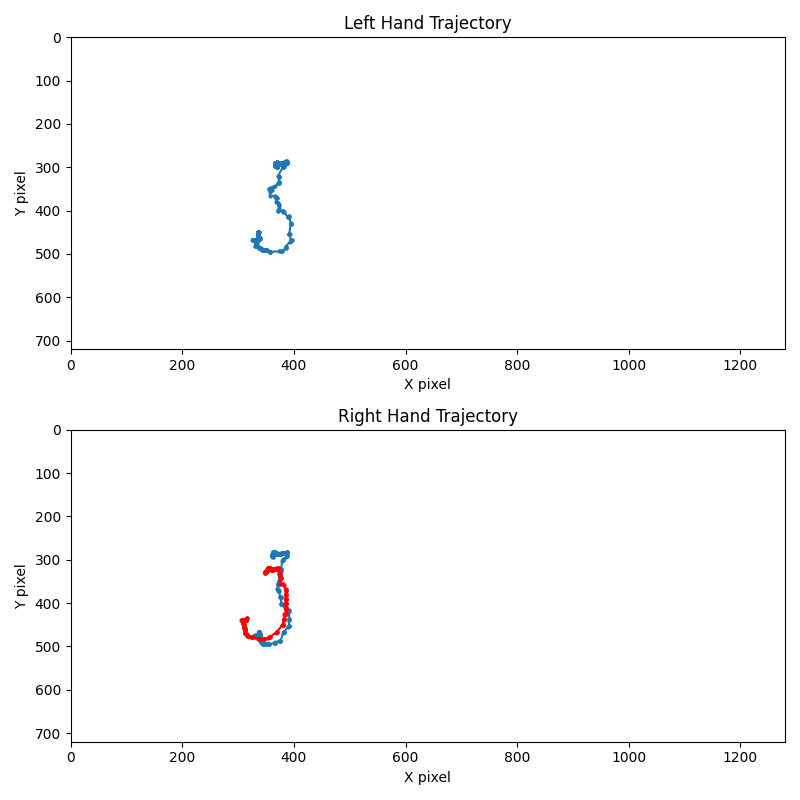
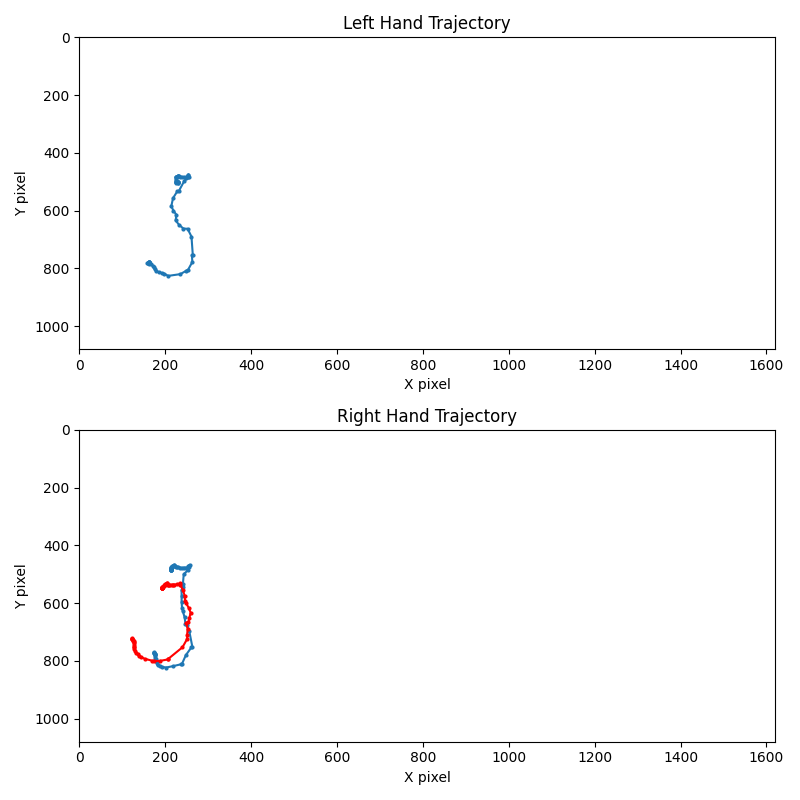
Got ball tracking and release to work

diff --git a/code/mediapipe1.py b/code/mediapipe1.py
@@ -1,6 +1,8 @@
 import matplotlib.pyplot as plt
 import mediapipe as mp
+import numpy as np
 import cv2
+from scipy.spatial import distance
 import matplotlib
 matplotlib.use('Agg')  # Set backend to Agg
 
@@ -9,122 +11,168 @@ matplotlib.use('Agg')  # Set backend to Agg
 mp_drawing = mp.solutions.drawing_utils
 mp_holistic = mp.solutions.holistic
 
-# Load video
-# cap = cv2.VideoCapture('final_project/wr_ft_cut_covered.mp4')
-# cap = cv2.VideoCapture('final_project/nash_miss_fullcut.mp4')
-# cap = cv2.VideoCapture('final_project/nash_slowed2.mp4')
-cap = cv2.VideoCapture('../videos/nash_shot_clean.mp4')
 
-width = int(cap.get(cv2.CAP_PROP_FRAME_WIDTH))
-height = int(cap.get(cv2.CAP_PROP_FRAME_HEIGHT))
+def track_shot(video='videos/nash_shot_clean.mp4'):
+    """
+    Track the trajectory of specific body landmarks (right elbow, left wrist, and right wrist) 
+    from a video using MediaPipe Holistic model.
 
-# Initialize holistic model
-with mp_holistic.Holistic(min_detection_confidence=0.1, min_tracking_confidence=0.1) as holistic:
+    Parameters:
+    -----------
+    video : str, optional
+        The path to the video file to be processed. Default is 'videos/nash_shot_clean.mp4'.
 
-    left_hand_trajectory = []
-    right_hand_trajectory = []
-    right_elbow_trajectory = []
-    left_wrist_trajectory = []
-    right_wrist_trajectory = []
+    Returns:
+    --------
+    width : int
+        The width of the video frames.
+    height : int
+        The height of the video frames.
+    left_wrist_trajectory : list of tuple
+        A list of (x, y) coordinates representing the trajectory of the left wrist over time.
+    right_wrist_trajectory : list of tuple
+        A list of (x, y) coordinates representing the trajectory of the right wrist over time.
+    right_elbow_trajectory : list of tuple
+        A list of (x, y) coordinates representing the trajectory of the right elbow over time.
 
-    while cap.isOpened():
-        ret, frame = cap.read()
-        if not ret:
-            break
+    Notes:
+    ------
+    The function opens a video file and processes it frame by frame to detect and track 
+    specified landmarks. The trajectory of each landmark is stored in a list and returned 
+    after the video is fully processed or the process is terminated by pressing 'q'.
+    """
+    # Load video
+    cap = cv2.VideoCapture(video)
 
-        # Convert the image to RGB
-        image = cv2.cvtColor(frame, cv2.COLOR_BGR2RGB)
+    width = int(cap.get(cv2.CAP_PROP_FRAME_WIDTH))
+    height = int(cap.get(cv2.CAP_PROP_FRAME_HEIGHT))
 
-        # Make detections
-        results = holistic.process(image)
+    # Initialize holistic model
+    with mp_holistic.Holistic(min_detection_confidence=0.1, min_tracking_confidence=0.1) as holistic:
 
-        # Draw landmarks on the face
-        mp_drawing.draw_landmarks(
-            image, results.face_landmarks, mp_holistic.FACEMESH_TESSELATION)
+        right_elbow_trajectory = []
+        left_wrist_trajectory = []
+        right_wrist_trajectory = []
 
-        # # Draw landmarks on the hands
-        # mp_drawing.draw_landmarks(
-        #     image, results.left_hand_landmarks, mp_holistic.HAND_CONNECTIONS)
-        # mp_drawing.draw_landmarks(
-        #     image, results.right_hand_landmarks, mp_holistic.HAND_CONNECTIONS)
+        while cap.isOpened():
+            ret, frame = cap.read()
+            if not ret:
+                break
 
-        # # Extract pixel-wise positions of landmarks for each hand
-        # if results.left_hand_landmarks:
-        #     left_hand_trajectory.append([(int(landmark.x * image.shape[1]), int(
-        #         landmark.y * image.shape[0])) for landmark in results.left_hand_landmarks.landmark][0])
+            # Convert the image to RGB
+            image = cv2.cvtColor(frame, cv2.COLOR_BGR2RGB)
 
-        # if results.right_hand_landmarks:
-        #     right_hand_trajectory.append([(int(landmark.x * image.shape[1]), int(
-        #         landmark.y * image.shape[0])) for landmark in results.right_hand_landmarks.landmark][0])
+            # Make detections
+            results = holistic.process(image)
 
-        # # Extract pixel-wise positions of landmarks for each hand
-        # if results.left_hand_landmarks:
-        #     left_hand_trajectory.append([(int(landmark.x * width), int(landmark.y * height))
-        #                                 for landmark in results.left_hand_landmarks.landmark][0])
+            # Draw landmarks on the face
+            mp_drawing.draw_landmarks(
+                image, results.face_landmarks, mp_holistic.FACEMESH_TESSELATION)
 
-        # if results.right_hand_landmarks:
-        #     right_hand_trajectory.append([(int(landmark.x * width), int(landmark.y * height))
-        #  for landmark in results.right_hand_landmarks.landmark][0])
+            # Draw landmarks on the hands
 
-        # print(type(results.pose_landmarks))
-        # print('hi')
-        # Extract pixel-wise position of right elbow
-        if results.pose_landmarks:
-            right_elbow_pos = results.pose_landmarks.landmark[
-                mp_holistic.PoseLandmark.RIGHT_ELBOW.value]
-            right_elbow_trajectory.append(
-                (int(right_elbow_pos.x * width), int(right_elbow_pos.y * height)))
+            # Extract pixel-wise position of right elbow
+            if results.pose_landmarks:
+                right_elbow_pos = results.pose_landmarks.landmark[
+                    mp_holistic.PoseLandmark.RIGHT_ELBOW.value]
+                right_elbow_trajectory.append(
+                    (int(right_elbow_pos.x * width), int(right_elbow_pos.y * height)))
 
-            left_wrist_pos = results.pose_landmarks.landmark[mp_holistic.PoseLandmark.LEFT_WRIST.value]
-            left_wrist_trajectory.append(
-                (int(left_wrist_pos.x * width), int(left_wrist_pos.y * height)))
+                left_wrist_pos = results.pose_landmarks.landmark[
+                    mp_holistic.PoseLandmark.LEFT_WRIST.value]
+                left_wrist_trajectory.append(
+                    (int(left_wrist_pos.x * width), int(left_wrist_pos.y * height)))
 
-            right_wrist_pos = results.pose_landmarks.landmark[
-                mp_holistic.PoseLandmark.RIGHT_WRIST.value]
-            right_wrist_trajectory.append(
-                (int(right_wrist_pos.x * width), int(right_wrist_pos.y * height)))
+                right_wrist_pos = results.pose_landmarks.landmark[
+                    mp_holistic.PoseLandmark.RIGHT_WRIST.value]
+                right_wrist_trajectory.append(
+                    (int(right_wrist_pos.x * width), int(right_wrist_pos.y * height)))
 
-        # Draw landmarks on the pose
-        mp_drawing.draw_landmarks(
-            image, results.pose_landmarks, mp_holistic.POSE_CONNECTIONS)
+            # Draw landmarks on the pose
+            mp_drawing.draw_landmarks(
+                image, results.pose_landmarks, mp_holistic.POSE_CONNECTIONS)
 
-        # Display output
-        cv2.imshow('MediaPipe Holistic', cv2.cvtColor(
-            image, cv2.COLOR_RGB2BGR))
-        if cv2.waitKey(10) & 0xFF == ord('q'):
-            break
+            # Display output
+            cv2.imshow('MediaPipe Holistic', cv2.cvtColor(
+                image, cv2.COLOR_RGB2BGR))
+            if cv2.waitKey(10) & 0xFF == ord('q'):
+                break
 
-cap.release()
-cv2.destroyAllWindows()
-
-# Plotting
-fig, axs = plt.subplots(2, figsize=(8, 8))
+    cap.release()
+    cv2.destroyAllWindows()
+    return width, height, left_wrist_trajectory, right_wrist_trajectory, right_elbow_trajectory
 
 
-# Plot left hand trajectory
-x, y = zip(*left_wrist_trajectory)
-axs[0].plot(x, y, marker='o', markersize=2)
+def run_with_plot(video='videos/nash_shot_clean.mp4'):
+    """
+    Track body landmarks from a video and plot their trajectories.
 
-axs[0].set_title('Left Hand Trajectory')
-axs[0].set_xlabel('X pixel')
-axs[0].set_ylabel('Y pixel')
-axs[0].set_xlim(0, width)
-axs[0].set_ylim(height, 0)  # Flip y-axis to match image coordinates
+    This function uses the `track_shot` function to track the trajectories of the left wrist, 
+    right wrist, and right elbow from a video. It then plots these trajectories and saves 
+    the plot as an image.
 
-# Plot right hand trajectory
-x, y = zip(*right_wrist_trajectory)
-axs[1].plot(x, y, marker='o', markersize=2)
+    Parameters:
+    -----------
+    video : str, optional
+        The path to the video file to be processed. Default is 'videos/nash_shot_clean.mp4'.
 
-# Plot right elbow trajectory
-x2, y2 = zip(*right_elbow_trajectory)
-axs[1].plot(x2, y2, marker='o', color="r", markersize=2)
+    Returns:
+    --------
+    None
 
-axs[1].set_title('Right Hand Trajectory')
-axs[1].set_xlabel('X pixel')
-axs[1].set_ylabel('Y pixel')
-axs[1].set_xlim(0, width)
-axs[1].set_ylim(height, 0)  # Flip y-axis to match image coordinates
+    Notes:
+    ------
+    The function first calls `track_shot` to obtain the trajectories of the specified landmarks. 
+    It then plots these trajectories using Matplotlib, with the left wrist trajectory plotted 
+    on the first subplot and both the right wrist and right elbow trajectories plotted on the 
+    second subplot. The y-axis is flipped to match image coordinates. The resulting plot is 
+    saved as 'plots/trajectory_plot.png'.
+    """
+    width, height, left_wrist_trajectory, right_wrist_trajectory, right_elbow_trajectory = track_shot(
+        video)
+    # Plotting
+    fig, axs = plt.subplots(2, figsize=(8, 8))
 
-plt.tight_layout()
-plt.savefig('../plots/trajectory_plot.png')  # Save the plot as an image
-plt.close(fig)  # Close the plot to prevent displaying it
+    # Plot left hand trajectory
+    x, y = zip(*left_wrist_trajectory)
+    axs[0].plot(x, y, marker='o', markersize=2)
+
+    axs[0].set_title('Left Hand Trajectory')
+    axs[0].set_xlabel('X pixel')
+    axs[0].set_ylabel('Y pixel')
+    axs[0].set_xlim(0, width)
+    axs[0].set_ylim(height, 0)  # Flip y-axis to match image coordinates
+
+    # Plot right hand trajectory
+    x, y = zip(*right_wrist_trajectory)
+    axs[1].plot(x, y, marker='o', markersize=2)
+
+    # Plot right elbow trajectory
+    x2, y2 = zip(*right_elbow_trajectory)
+    axs[1].plot(x2, y2, marker='o', color="r", markersize=2)
+
+    axs[1].set_title('Right Hand Trajectory')
+    axs[1].set_xlabel('X pixel')
+    axs[1].set_ylabel('Y pixel')
+    axs[1].set_xlim(0, width)
+    axs[1].set_ylim(height, 0)  # Flip y-axis to match image coordinates
+
+    plt.tight_layout()
+    plt.savefig('plots/trajectory_plot.png')  # Save the plot as an image
+    plt.close(fig)  # Close the plot to prevent displaying it
+
+
+def find_release(threshold, wrist, ball):
+    while len(wrist) > len(ball):
+        wrist.pop()
+
+    # Compute the distance from each point in ARR2 to each point in ARR1
+    dists = distance.cdist(ball, wrist, 'euclidean')
+    # Find the minimum distance to any point in ARR1 for each point in ARR2
+    min_dists = np.min(dists, axis=1)
+    # Find the indices where the distance is greater than the threshold
+    indices = np.where(min_dists > threshold)[0]
+    # Get the points in ARR2 that are farther than the threshold
+    far_points = ball[indices]
+
+    return far_points

diff --git a/code/test_mp.py b/code/test_mp.py
@@ -1,0 +1,55 @@
+from mediapipe1 import track_shot, find_release
+from score_basketballs import track_basketball
+import cv2
+import matplotlib
+import matplotlib.pyplot as plt
+matplotlib.use('Agg')  # Set backend to Agg
+
+width, height, left_wrist_trajectory, right_wrist_trajectory, right_elbow_trajectory = track_shot()
+
+# run_with_plot()
+# display and saves the basketball trajectory
+# load video
+cap = cv2.VideoCapture('videos/nash_shot_clean.mp4')  # also: nash_cut.mp4
+coordinates = track_basketball(
+    cap, plot_save_file='plots/basketball_trajectory_7', csv_save_file='data/basketball_trajectory_7')
+
+# print(f"Coordinates: {coordinates}")
+# Plotting
+fig, axs = plt.subplots(1, figsize=(8, 8))
+
+# Plot left hand trajectory
+x, y = zip(*left_wrist_trajectory)
+axs.plot(x, y, marker='o', color="purple", markersize=2, label="Left wrist")
+
+axs.set_title('Every Trajectory')
+axs.set_aspect('equal')
+axs.set_xlabel('X pixel')
+axs.set_ylabel('Y pixel')
+axs.set_xlim(0, width)
+axs.set_ylim(height, 0)  # Flip y-axis to match image coordinates
+
+# Plot right hand trajectory
+x, y = zip(*right_wrist_trajectory)
+axs.plot(x, y, marker='o', color="g", markersize=2, label="Right wrist")
+
+# Plot right elbow trajectory
+x2, y2 = zip(*right_elbow_trajectory)
+axs.plot(x2, y2, marker='o', color="r", markersize=2, label="Right Elbow")
+
+# Plot ball trajectory
+x3, y3 = zip(*coordinates)
+axs.plot(x3, y3, marker='o', color="b", markersize=2, label="Ball")
+
+far_points = find_release(40, right_wrist_trajectory, coordinates)
+
+# Plot ball trajectory post release
+x4, y4 = zip(*far_points)
+axs.plot(x4, y4, marker='o', color="orange",
+         markersize=2, label="Ball Released")
+
+
+axs.legend()
+
+plt.savefig('plots/full_trajectory_plot.png')  # Save the plot as an image
+plt.close(fig)  # Close the plot to prevent displaying it

diff --git a/code/test.py b/code/test.py
@@ -2,8 +2,33 @@ import cv2
 from score_basketballs import track_basketball
 
 
-# load video
-cap = cv2.VideoCapture('../videos/nash_shot_clean.mp4') # also: nash_cut.mp4
+# # load video
+# cap = cv2.VideoCapture('../videos/nash_shot_clean.mp4') # also: nash_cut.mp4
 
-# display and saves the basketball trajectory
-coordinates = track_basketball(cap, plot_save_file='../plots/basketball_trajectory_3', csv_save_file='../data/basketball_trajectory_3')
+# # display and saves the basketball trajectory
+# coordinates = track_basketball(cap, plot_save_file='../plots/basketball_trajectory_3', csv_save_file='../data/basketball_trajectory_3')
+
+import numpy as np
+from scipy.spatial import distance
+
+# Example ARR1 and ARR2
+ARR1 = np.array([(1, 2), (3, 4), (5, 6)])
+ARR2 = np.array([(2, 2), (4, 6), (10, 12), (7, 8), (54, 33), (54, 34)])
+
+# Define the distance threshold
+threshold = 5
+
+# Compute the distance from each point in ARR2 to each point in ARR1
+dists = distance.cdist(ARR2, ARR1, 'euclidean')
+
+# Find the minimum distance to any point in ARR1 for each point in ARR2
+min_dists = np.min(dists, axis=1)
+
+# Find the indices where the distance is greater than the threshold
+indices = np.where(min_dists > threshold)[0]
+
+# Get the points in ARR2 that are farther than the threshold
+far_points = ARR2[indices]
+
+print("Indices of points farther than the threshold:", indices)
+print("Points in ARR2 farther than the threshold:", far_points)
